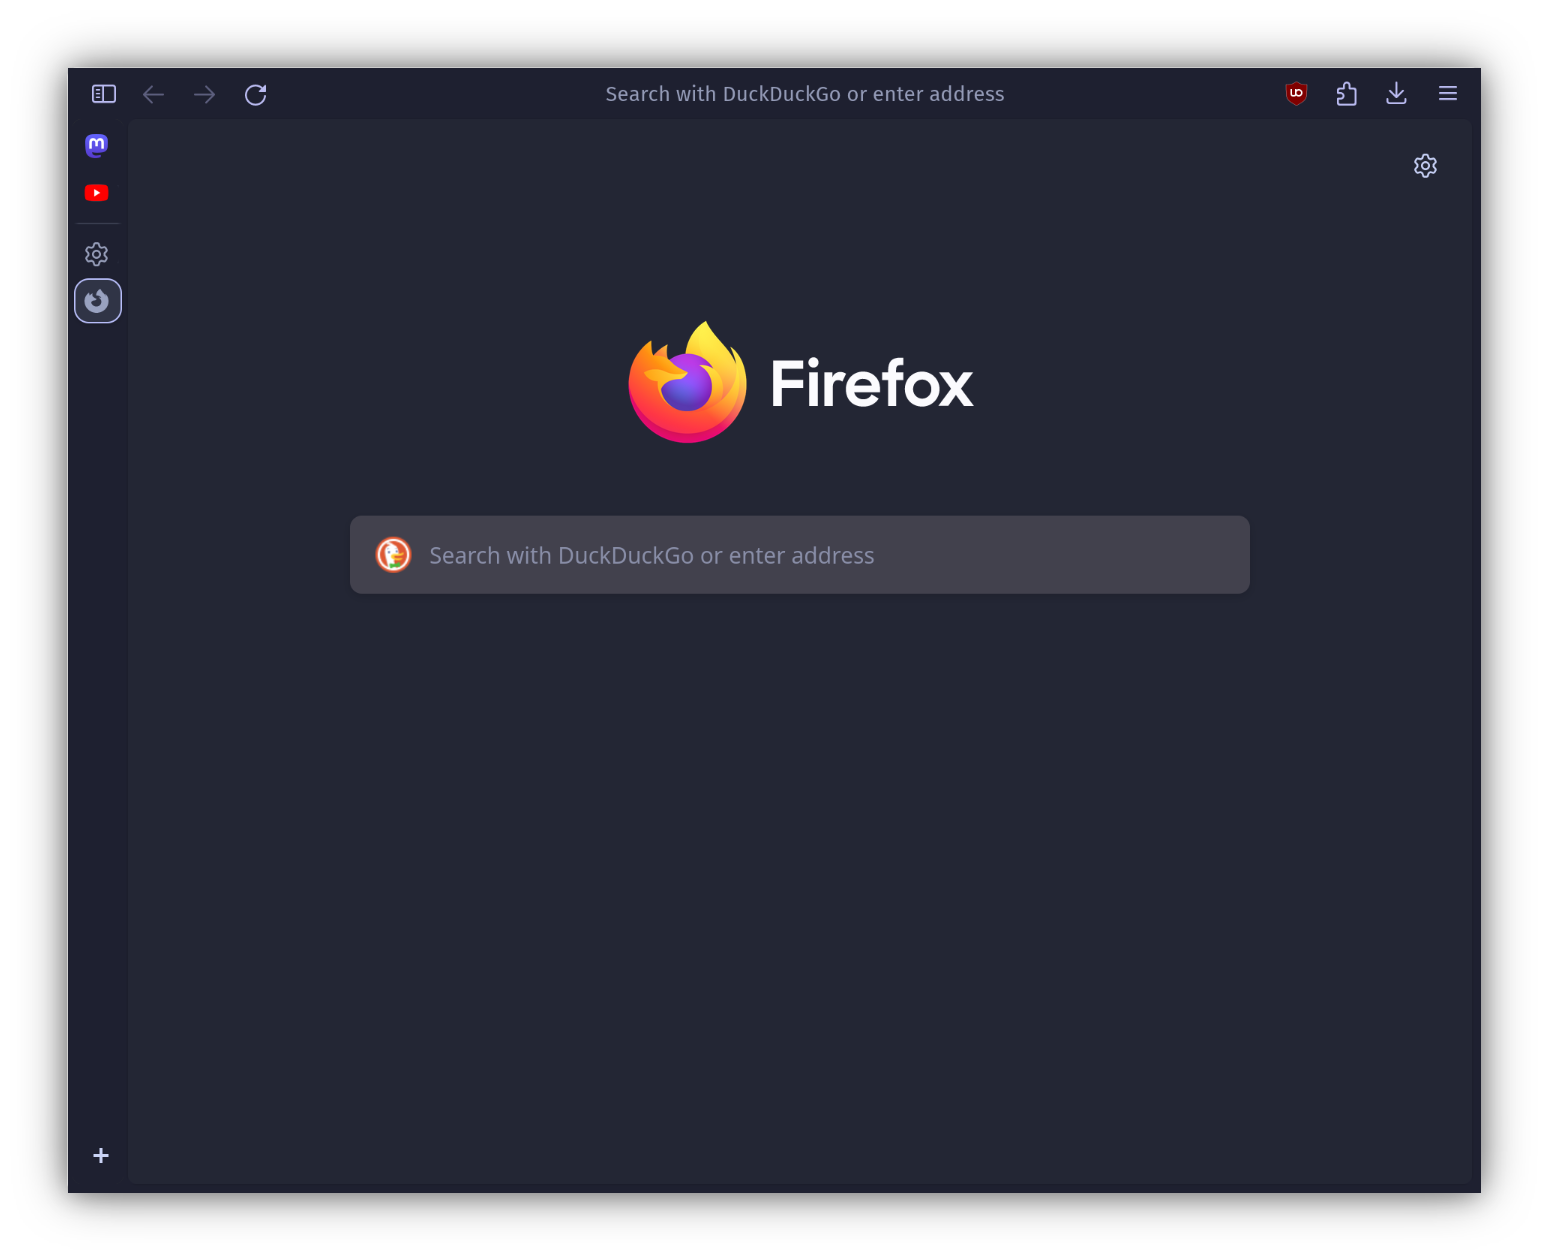
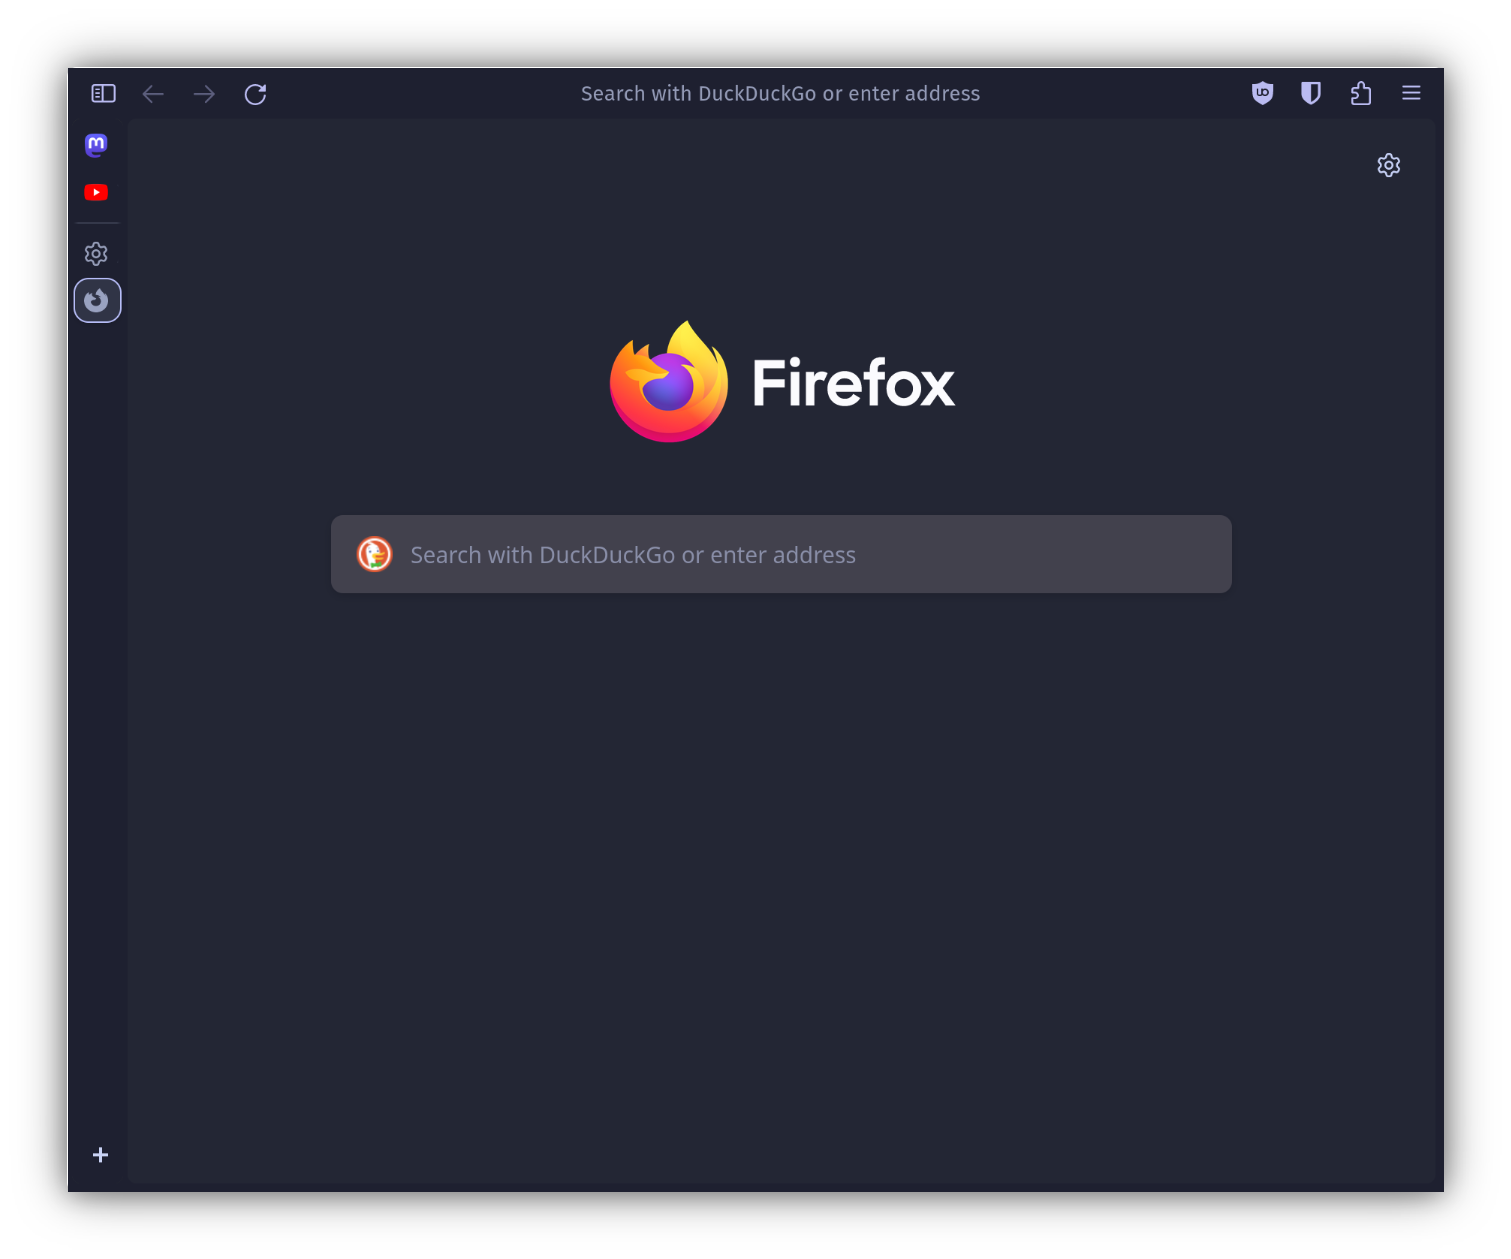
fix: uBlock css + update screenshot

diff --git a/chrome/browser/icons.css b/chrome/browser/icons.css
@@ -1,17 +1,22 @@
 /* Credit to artsyfriedchicken */
 
 /* userChrome toggle => sidebar icon */
-:is(.webextension-browser-action,
-.eom-addon-button):is([data-extensionid="userchrome-toggle-extended@n2ezr.ru"],
+:is(.webextension-browser-action, .eom-addon-button):is(
+[data-extensionid="userchrome-toggle-extended@n2ezr.ru"],
 [data-extensionid="userchrome-toggle@joolee.nl"]) .toolbarbutton-icon {
     list-style-image: url("chrome://browser/skin/sidebars.svg");
 }
 
 /* uBlock Origin => custom svg icon */
 :is(.webextension-browser-action,
-.eom-addon-button)[data-extensionid="uBlock0@raymondhill.net"] 
-.toolbarbutton-icon {
+.eom-addon-button)[data-extensionid="uBlock0@raymondhill.net"] {
+  & .toolbarbutton-icon {
   list-style-image: url("../icons/ublock.svg");
+  }
+  & .toolbarbutton-badge {
+    opacity: 0 !important;
+    box-shadow: none !important;
+  }
 }
 
 /* Bitwarden => custom svg icon */
@@ -35,7 +40,7 @@
   list-style-image: url("../icons/moon.svg");
 }
 
-/* Profile Switcher => profile icon */
+/* Profile Switcher => default avatar icon */
 :is(.webextension-browser-action,
 .eom-addon-button)[data-extensionid="profile-switcher-ff@nd.ax"] 
 .toolbarbutton-icon {
